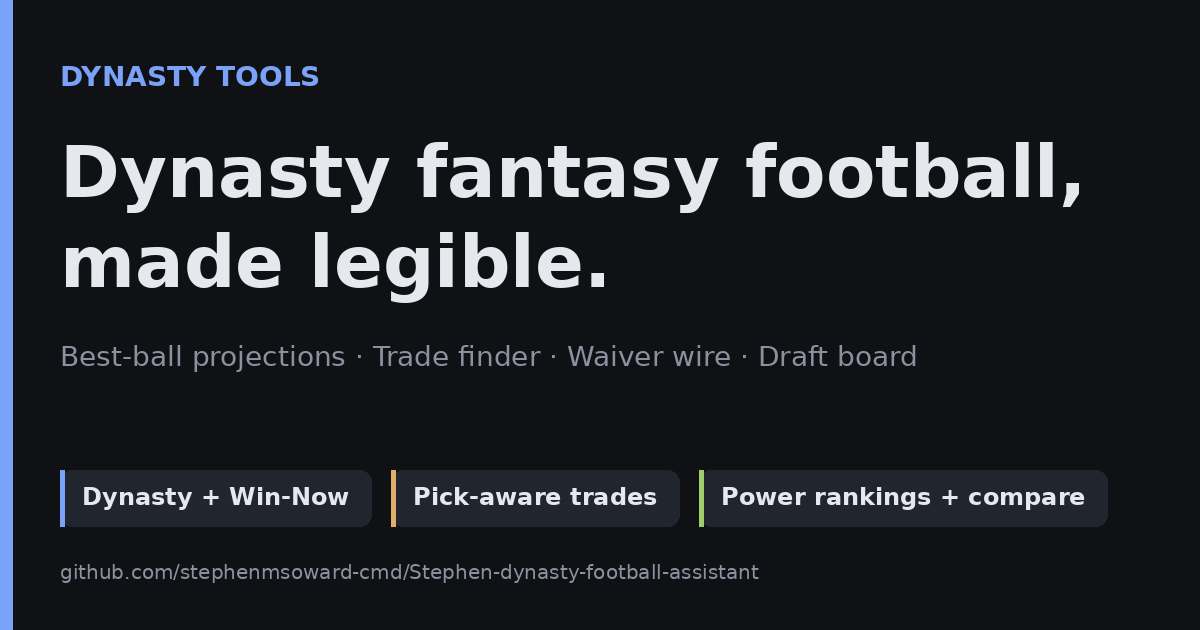
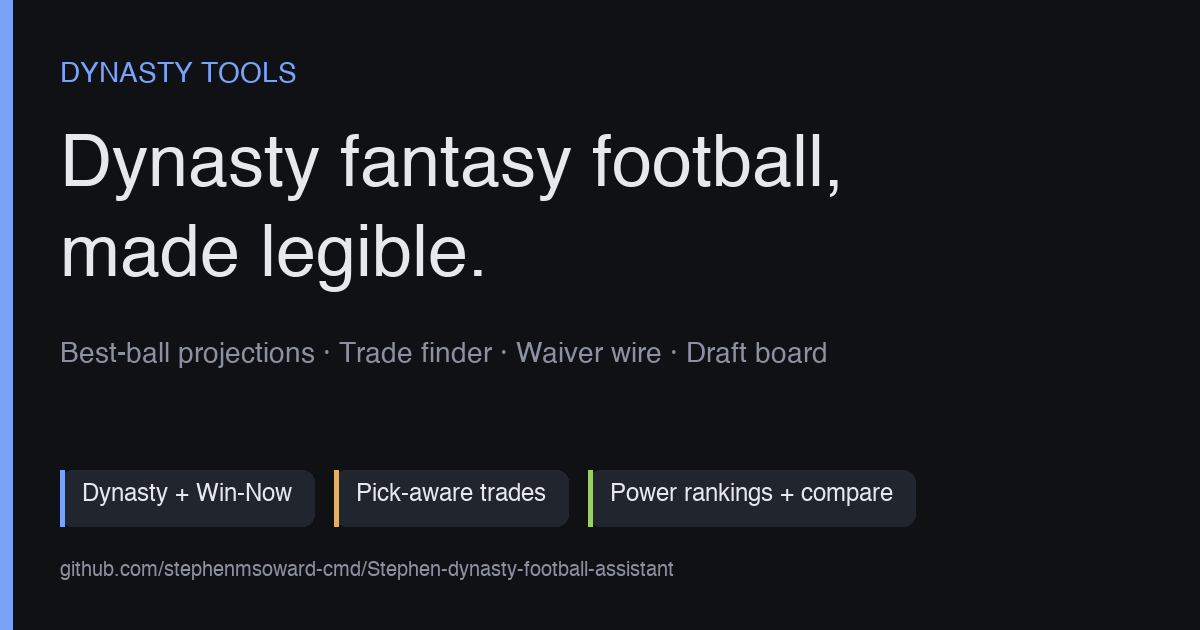
Fix standings rank-delta tooltip to reference active mode
The rank-delta arrow in the standings "other mode #" column described the
shift using the OTHER mode's label. A team that's Win-Now #1 / Dynasty #5
showed "Rises 4 ranks in Dynasty mode" while viewing Win-Now standings —
backwards. It rises in the mode you're viewing (Win-Now), not the other.

Fix: pass active_label into the standings_table macro; tooltip now reads
"Rises 4 ranks in Win Now mode (vs #5 in Dynasty)". Arrow direction was
already correct; only the label was wrong.

diff --git a/docs/leagues/bricksquad-sportz/index.html b/docs/leagues/bricksquad-sportz/index.html
@@ -61,7 +61,7 @@
       Best-ball projection &middot; 2026 season &middot;
       10 teams &middot; 0.5 PPR &middot;
       4.0-pt pass TDs
-      <span class="muted small">&middot; Generated 2026-05-28T11:20:32+00:00</span>
+      <span class="muted small">&middot; Generated 2026-05-28T11:25:19+00:00</span>
     </div>
   </header>
 
@@ -226,7 +226,7 @@
     <div class="news-headline">
 <a href="https://www.espn.com/nfl/story/_/id/48894116/eagles-jalen-hurts-relationship-aj-brown-really-good" target="_blank" rel="noopener">Eagles' Jalen Hurts: Relationship with A.J. Brown 'really good'</a>
       <span class="muted small news-age">
-13h ago
+14h ago
       </span>
     </div>
 <div class="muted small news-desc">Eagles quarterback Jalen Hurts said his relationship with A.J. Brown is "really good" despite all the trade talk that continues around the star receiver.</div>    <div class="news-players">
@@ -267,7 +267,7 @@
         <td class="muted hide-mobile">jmirandette</td>
         <td class="num">
           4
-          <span class="delta up" title="Rises 3 ranks in Win Now mode">▲3</span>
+          <span class="delta up" title="Rises 3 ranks in Dynasty mode (vs #4 in Win Now)">▲3</span>
         </td>
         <td class="num hide-mobile">4,541</td>
         <td class="num hide-mobile">10,530</td>
@@ -289,7 +289,7 @@
         <td class="muted hide-mobile">nfaber</td>
         <td class="num">
           3
-          <span class="delta up" title="Rises 1 rank in Win Now mode">▲1</span>
+          <span class="delta up" title="Rises 1 rank in Dynasty mode (vs #3 in Win Now)">▲1</span>
         </td>
         <td class="num hide-mobile">2,482</td>
         <td class="num hide-mobile">23,610</td>
@@ -311,7 +311,7 @@
         <td class="muted hide-mobile">ssoward94</td>
         <td class="num">
           2
-          <span class="delta down" title="Falls 1 rank in Win Now mode">▼1</span>
+          <span class="delta down" title="Falls 1 rank in Dynasty mode (vs #2 in Win Now)">▼1</span>
         </td>
         <td class="num hide-mobile">2,852</td>
         <td class="num hide-mobile">7,164</td>
@@ -333,7 +333,7 @@
         <td class="muted hide-mobile">dantonio34</td>
         <td class="num">
           7
-          <span class="delta up" title="Rises 3 ranks in Win Now mode">▲3</span>
+          <span class="delta up" title="Rises 3 ranks in Dynasty mode (vs #7 in Win Now)">▲3</span>
         </td>
         <td class="num hide-mobile">2,944</td>
         <td class="num hide-mobile">15,848</td>
@@ -355,7 +355,7 @@
         <td class="muted hide-mobile">AhjaySidhu</td>
         <td class="num">
           1
-          <span class="delta down" title="Falls 4 ranks in Win Now mode">▼4</span>
+          <span class="delta down" title="Falls 4 ranks in Dynasty mode (vs #1 in Win Now)">▼4</span>
         </td>
         <td class="num hide-mobile">3,864</td>
         <td class="num hide-mobile">16,560</td>
@@ -377,7 +377,7 @@
         <td class="muted hide-mobile">GregariousG</td>
         <td class="num">
           8
-          <span class="delta up" title="Rises 2 ranks in Win Now mode">▲2</span>
+          <span class="delta up" title="Rises 2 ranks in Dynasty mode (vs #8 in Win Now)">▲2</span>
         </td>
         <td class="num hide-mobile">3,674</td>
         <td class="num hide-mobile">14,853</td>
@@ -399,7 +399,7 @@
         <td class="muted hide-mobile">ebbittm</td>
         <td class="num">
           5
-          <span class="delta down" title="Falls 2 ranks in Win Now mode">▼2</span>
+          <span class="delta down" title="Falls 2 ranks in Dynasty mode (vs #5 in Win Now)">▼2</span>
         </td>
         <td class="num hide-mobile">5,205</td>
         <td class="num hide-mobile">13,260</td>
@@ -421,7 +421,7 @@
         <td class="muted hide-mobile">dkrauz</td>
         <td class="num">
           6
-          <span class="delta down" title="Falls 2 ranks in Win Now mode">▼2</span>
+          <span class="delta down" title="Falls 2 ranks in Dynasty mode (vs #6 in Win Now)">▼2</span>
         </td>
         <td class="num hide-mobile">1,801</td>
         <td class="num hide-mobile">7,834</td>
@@ -506,7 +506,7 @@
         <td class="muted hide-mobile">AhjaySidhu</td>
         <td class="num">
           5
-          <span class="delta up" title="Rises 4 ranks in Dynasty mode">▲4</span>
+          <span class="delta up" title="Rises 4 ranks in Win Now mode (vs #5 in Dynasty)">▲4</span>
         </td>
         <td class="num hide-mobile">3,726</td>
         <td class="num hide-mobile">22,674</td>
@@ -528,7 +528,7 @@
         <td class="muted hide-mobile">ssoward94</td>
         <td class="num">
           3
-          <span class="delta up" title="Rises 1 rank in Dynasty mode">▲1</span>
+          <span class="delta up" title="Rises 1 rank in Win Now mode (vs #3 in Dynasty)">▲1</span>
         </td>
         <td class="num hide-mobile">1,745</td>
         <td class="num hide-mobile">10,092</td>
@@ -550,7 +550,7 @@
         <td class="muted hide-mobile">nfaber</td>
         <td class="num">
           2
-          <span class="delta down" title="Falls 1 rank in Dynasty mode">▼1</span>
+          <span class="delta down" title="Falls 1 rank in Win Now mode (vs #2 in Dynasty)">▼1</span>
         </td>
         <td class="num hide-mobile">963</td>
         <td class="num hide-mobile">28,493</td>
@@ -572,7 +572,7 @@
         <td class="muted hide-mobile">jmirandette</td>
         <td class="num">
           1
-          <span class="delta down" title="Falls 3 ranks in Dynasty mode">▼3</span>
+          <span class="delta down" title="Falls 3 ranks in Win Now mode (vs #1 in Dynasty)">▼3</span>
         </td>
         <td class="num hide-mobile">3,288</td>
         <td class="num hide-mobile">13,051</td>
@@ -594,7 +594,7 @@
         <td class="muted hide-mobile">ebbittm</td>
         <td class="num">
           7
-          <span class="delta up" title="Rises 2 ranks in Dynasty mode">▲2</span>
+          <span class="delta up" title="Rises 2 ranks in Win Now mode (vs #7 in Dynasty)">▲2</span>
         </td>
         <td class="num hide-mobile">5,840</td>
         <td class="num hide-mobile">14,118</td>
@@ -616,7 +616,7 @@
         <td class="muted hide-mobile">dkrauz</td>
         <td class="num">
           8
-          <span class="delta up" title="Rises 2 ranks in Dynasty mode">▲2</span>
+          <span class="delta up" title="Rises 2 ranks in Win Now mode (vs #8 in Dynasty)">▲2</span>
         </td>
         <td class="num hide-mobile">570</td>
         <td class="num hide-mobile">12,338</td>
@@ -638,7 +638,7 @@
         <td class="muted hide-mobile">dantonio34</td>
         <td class="num">
           4
-          <span class="delta down" title="Falls 3 ranks in Dynasty mode">▼3</span>
+          <span class="delta down" title="Falls 3 ranks in Win Now mode (vs #4 in Dynasty)">▼3</span>
         </td>
         <td class="num hide-mobile">1,955</td>
         <td class="num hide-mobile">17,557</td>
@@ -660,7 +660,7 @@
         <td class="muted hide-mobile">GregariousG</td>
         <td class="num">
           6
-          <span class="delta down" title="Falls 2 ranks in Dynasty mode">▼2</span>
+          <span class="delta down" title="Falls 2 ranks in Win Now mode (vs #6 in Dynasty)">▼2</span>
         </td>
         <td class="num hide-mobile">3,432</td>
         <td class="num hide-mobile">13,936</td>

diff --git a/docs/leagues/bricksquad-sportz/waivers/index.html b/docs/leagues/bricksquad-sportz/waivers/index.html
@@ -62,7 +62,7 @@
       26 veteran free agents
         <span class="muted small">(70 rookies moved to draft page)</span>
         &middot; gap positions: QB, RB, TE
-      <span class="muted small">&middot; Generated 2026-05-28T11:20:32+00:00</span>
+      <span class="muted small">&middot; Generated 2026-05-28T11:25:19+00:00</span>
     </div>
   </header>
 

diff --git a/docs/leagues/bricksquad-sportz/draft/index.html b/docs/leagues/bricksquad-sportz/draft/index.html
@@ -61,7 +61,7 @@
       BrickSquad Sportz &middot; 2026 rookie draft &middot;
       10 teams &middot;
       70 available prospects
-      <span class="muted small">&middot; Generated 2026-05-28T11:20:32+00:00</span>
+      <span class="muted small">&middot; Generated 2026-05-28T11:25:19+00:00</span>
     </div>
   </header>
 

diff --git a/docs/leagues/bricksquad-sportz/compare/index.html b/docs/leagues/bricksquad-sportz/compare/index.html
@@ -61,7 +61,7 @@
       BrickSquad Sportz &middot; 2026 &middot;
       Dynasty rank #3 &middot;
       Win-Now rank #2
-      <span class="muted small">&middot; Generated 2026-05-28T11:20:32+00:00</span>
+      <span class="muted small">&middot; Generated 2026-05-28T11:25:19+00:00</span>
     </div>
   </header>
 

diff --git a/docs/leagues/bricksquad-sportz/rankings/index.html b/docs/leagues/bricksquad-sportz/rankings/index.html
@@ -60,7 +60,7 @@
     <div class="tagline">
       BrickSquad Sportz &middot; 2026 &middot;
       10 teams
-      <span class="muted small">&middot; Generated 2026-05-28T11:20:32+00:00</span>
+      <span class="muted small">&middot; Generated 2026-05-28T11:25:19+00:00</span>
     </div>
   </header>
 

diff --git a/docs/leagues/bricksquad-sportz/trades/index.html b/docs/leagues/bricksquad-sportz/trades/index.html
@@ -63,7 +63,7 @@
       Win-Now rank #2 &middot;
       4 picks
       (value 9,351)
-      <span class="muted small">&middot; Generated 2026-05-28T11:20:32+00:00</span>
+      <span class="muted small">&middot; Generated 2026-05-28T11:25:19+00:00</span>
     </div>
   </header>
 

diff --git a/docs/index.html b/docs/index.html
@@ -57,7 +57,7 @@
   </div>
 
   <footer class="site">
-    Generated 2026-05-28T11:20:32+00:00.
+    Generated 2026-05-28T11:25:19+00:00.
   </footer>
 </div>
 </body>
